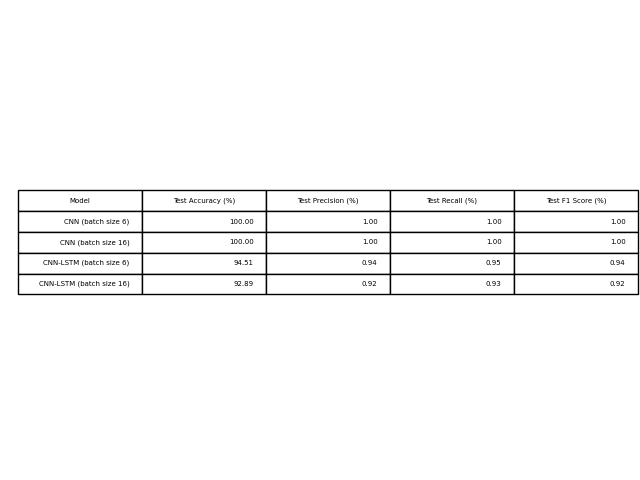
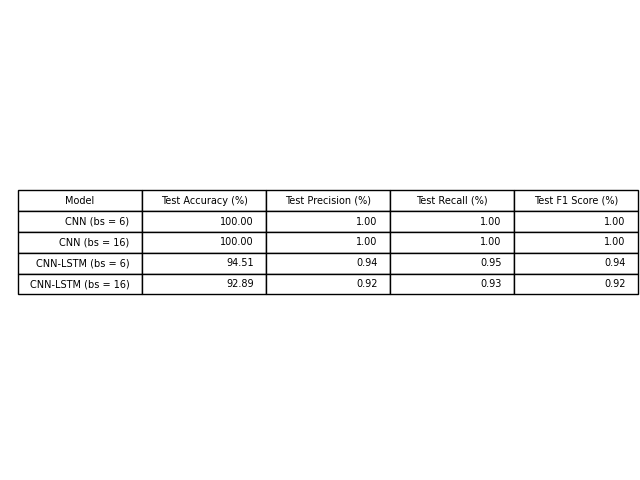
Creating tables for results

diff --git a/models/Creating_graphs_and_tables.py b/models/Creating_graphs_and_tables.py
@@ -41,10 +41,10 @@ plt.show()
 # creating a table to compare the validation accuracy, training time and training peak memory usage for the CNN and CNN-LSTM models with batch sizes of 6 and 16
 
 data = [
-    ["CNN (batch size 6)", f"{np.load('CNN_model_6_train_time.npy')[0]:.2f}", f"{np.load('CNN_model_6_peak_mem_usage.npy')[0]:.2f}", f"{np.load('CNN_6_validation_accuracy.npy')[0] * 100:.2f}"],
-    ["CNN (batch size 16)", f"{np.load('CNN_model_16_train_time.npy')[0]:.2f}", f"{np.load('CNN_model_16_peak_mem_usage.npy')[0]:.2f}", f"{np.load('CNN_16_validation_accuracy.npy')[0] * 100:.2f}"],
-    ["CNN-LSTM (batch size 6)", f"{np.load('CNN_LSTM_model_6_train_time.npy')[0]:.2f}", f"{np.load('CNN_LSTM_model_6_peak_mem_usage.npy')[0]:.2f}", f"{np.load('CNN_LSTM_6_validation_accuracy.npy')[0] * 100:.2f}"],
-    ["CNN-LSTM (batch size 16)", f"{np.load('CNN_LSTM_model_16_train_time.npy')[0]:.2f}", f"{np.load('CNN_LSTM_model_16_peak_mem_usage.npy')[0]:.2f}", f"{np.load('CNN_LSTM_16_validation_accuracy.npy')[0] * 100:.2f}"]
+    ["CNN (bs = 6)", f"{np.load('CNN_model_6_train_time.npy')[0]:.2f}", f"{np.load('CNN_model_6_peak_mem_usage.npy')[0]:.2f}", f"{np.load('CNN_6_validation_accuracy.npy')[0] * 100:.2f}"],
+    ["CNN (bs = 16)", f"{np.load('CNN_model_16_train_time.npy')[0]:.2f}", f"{np.load('CNN_model_16_peak_mem_usage.npy')[0]:.2f}", f"{np.load('CNN_16_validation_accuracy.npy')[0] * 100:.2f}"],
+    ["CNN-LSTM (bs = 6)", f"{np.load('CNN_LSTM_model_6_train_time.npy')[0]:.2f}", f"{np.load('CNN_LSTM_model_6_peak_mem_usage.npy')[0]:.2f}", f"{np.load('CNN_LSTM_6_validation_accuracy.npy')[0] * 100:.2f}"],
+    ["CNN-LSTM (bs = 16)", f"{np.load('CNN_LSTM_model_16_train_time.npy')[0]:.2f}", f"{np.load('CNN_LSTM_model_16_peak_mem_usage.npy')[0]:.2f}", f"{np.load('CNN_LSTM_16_validation_accuracy.npy')[0] * 100:.2f}"]
 ]
 
 columns = ["Model", "Training Time (minutes)", "Peak Memory Usage (MB)", "Validation Accuracy (%)"]
@@ -64,10 +64,10 @@ plt.show()
 
 # creating a table to compare the test accuracy, precision, recall and F1 score for the CNN and CNN-LSTM models with batch sizes of 6 and 16
 data = [
-    ["CNN (batch size 6)", f"{np.load('CNN_6_test_accuracy.npy')[0] * 100:.2f}", f"{np.load('CNN_6_test_precision.npy')[0]:.2f}", f"{np.load('CNN_6_test_recall.npy')[0]:.2f}", f"{np.load('CNN_6_test_f1.npy')[0]:.2f}"],
-    ["CNN (batch size 16)", f"{np.load('CNN_16_test_accuracy.npy')[0] * 100:.2f}", f"{np.load('CNN_16_test_precision.npy')[0]:.2f}", f"{np.load('CNN_16_test_recall.npy')[0]:.2f}", f"{np.load('CNN_16_test_f1.npy')[0]:.2f}"],
-    ["CNN-LSTM (batch size 6)", f"{np.load('CNN_LSTM_6_test_accuracy.npy')[0] * 100:.2f}", f"{np.load('CNN_LSTM_6_test_precision.npy')[0]:.2f}", f"{np.load('CNN_LSTM_6_test_recall.npy')[0]:.2f}", f"{np.load('CNN_LSTM_6_test_f1.npy')[0]:.2f}"],
-    ["CNN-LSTM (batch size 16)", f"{np.load('CNN_LSTM_16_test_accuracy.npy')[0] * 100:.2f}", f"{np.load('CNN_LSTM_16_test_precision.npy')[0]:.2f}", f"{np.load('CNN_LSTM_16_test_recall.npy')[0]:.2f}", f"{np.load('CNN_LSTM_16_test_f1.npy')[0]:.2f}"]
+    ["CNN (bs = 6)", f"{np.load('CNN_6_test_accuracy.npy')[0] * 100:.2f}", f"{np.load('CNN_6_test_precision.npy')[0]:.2f}", f"{np.load('CNN_6_test_recall.npy')[0]:.2f}", f"{np.load('CNN_6_test_f1.npy')[0]:.2f}"],
+    ["CNN (bs = 16)", f"{np.load('CNN_16_test_accuracy.npy')[0] * 100:.2f}", f"{np.load('CNN_16_test_precision.npy')[0]:.2f}", f"{np.load('CNN_16_test_recall.npy')[0]:.2f}", f"{np.load('CNN_16_test_f1.npy')[0]:.2f}"],
+    ["CNN-LSTM (bs = 6)", f"{np.load('CNN_LSTM_6_test_accuracy.npy')[0] * 100:.2f}", f"{np.load('CNN_LSTM_6_test_precision.npy')[0]:.2f}", f"{np.load('CNN_LSTM_6_test_recall.npy')[0]:.2f}", f"{np.load('CNN_LSTM_6_test_f1.npy')[0]:.2f}"],
+    ["CNN-LSTM (bs = 16)", f"{np.load('CNN_LSTM_16_test_accuracy.npy')[0] * 100:.2f}", f"{np.load('CNN_LSTM_16_test_precision.npy')[0]:.2f}", f"{np.load('CNN_LSTM_16_test_recall.npy')[0]:.2f}", f"{np.load('CNN_LSTM_16_test_f1.npy')[0]:.2f}"]
 ]
 
 columns = ["Model", "Test Accuracy (%)", "Test Precision (%)", "Test Recall (%)", "Test F1 Score (%)"]
